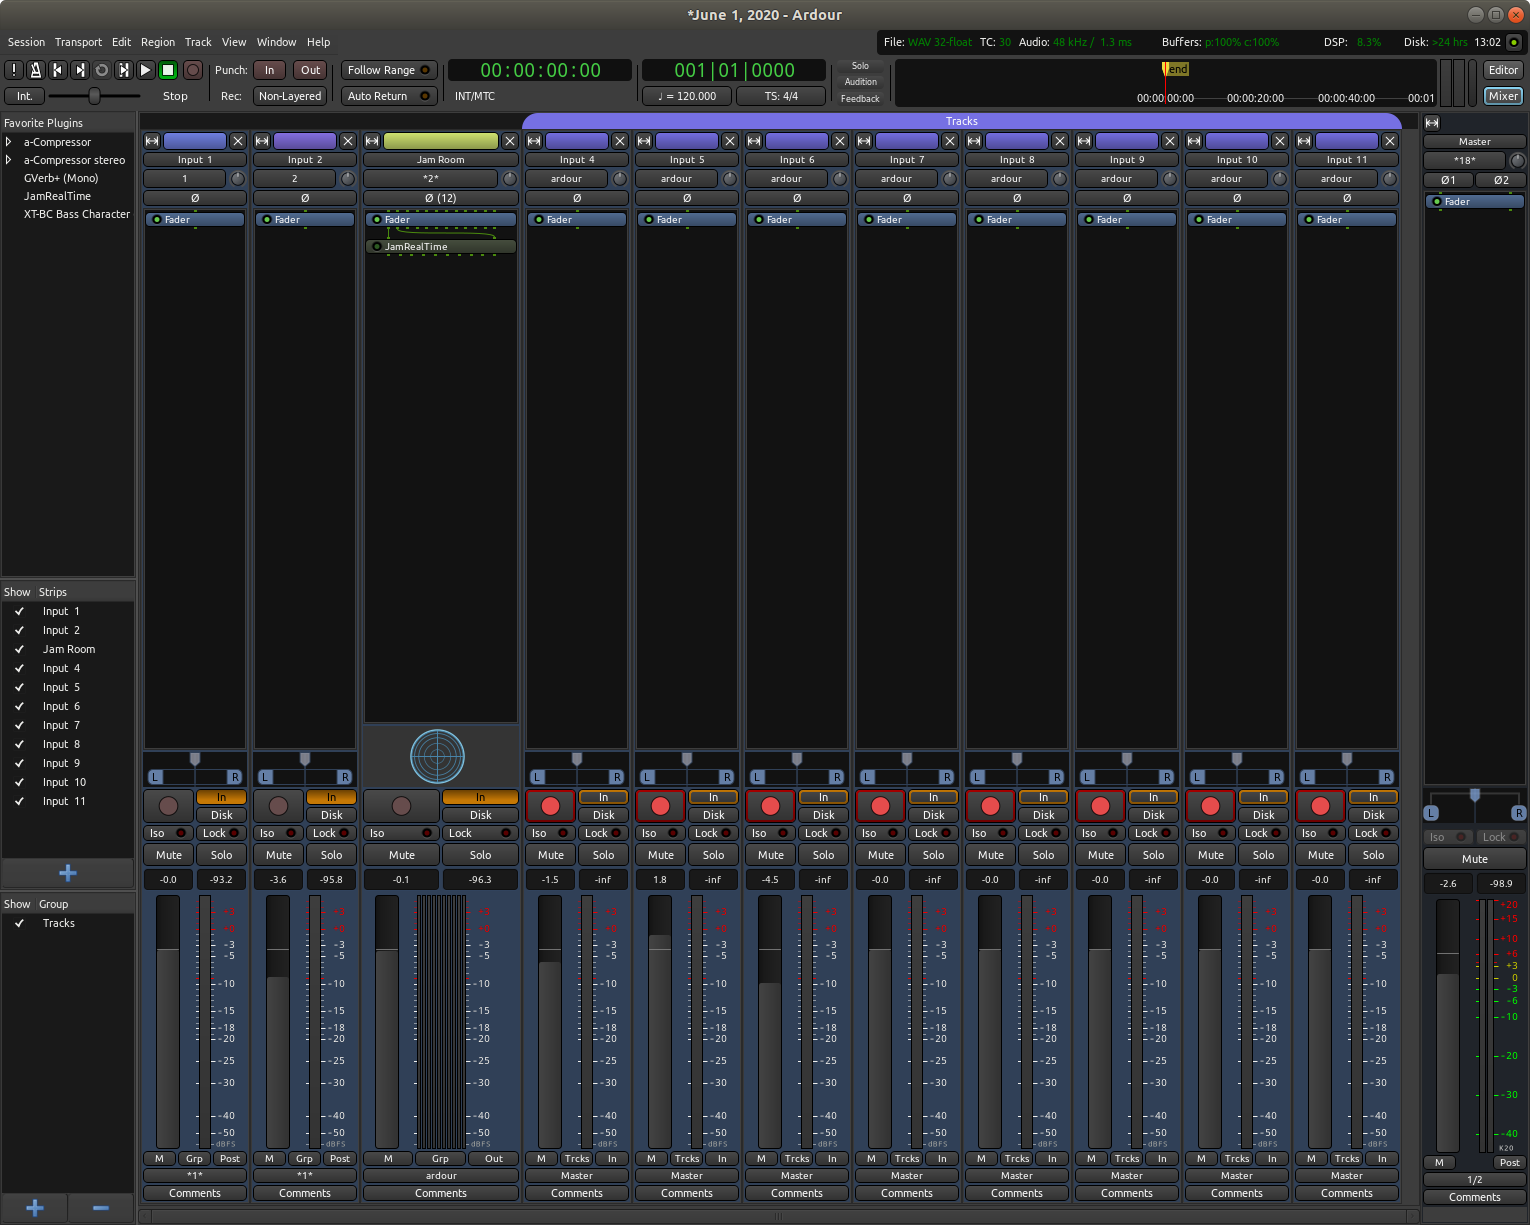
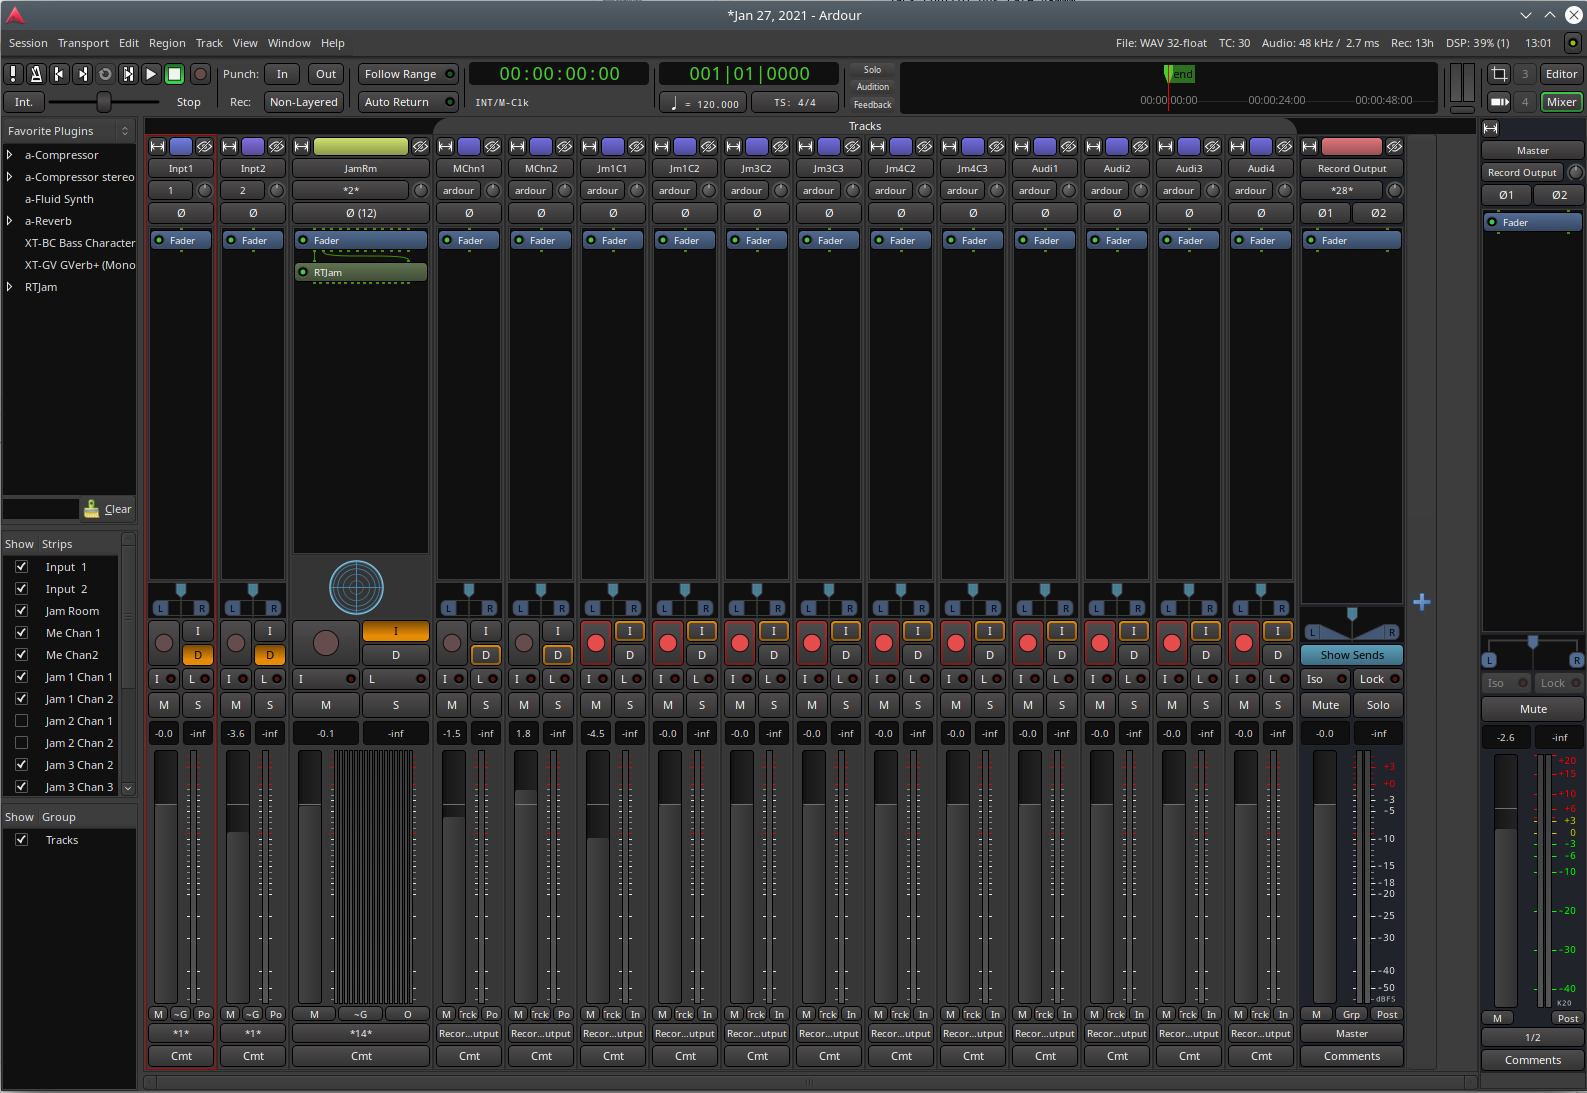
update README

diff --git a/README.md b/README.md
@@ -46,14 +46,15 @@ The RTJam software also builds on the Raspberry Pi 4 and can be run as a "standa
 
 ![Pi App](Standalone.png)
 
-- Input 1/2 - Shows pre and post fader levels for the users inputs
-- 4 player controls - Each control corresponds to another person in the room. The controls are level sliders for that user's two channels.
+- Room selector - chooses which jam room to occupy
+- Master volume - slider for overall level in the outputs
+- Bottom left faders - Shows pre and post fader levels for the users inputs
+- Player controls (right half side) - Each control set corresponds to another person in the room. The controls are level sliders for that user's two channels.
 
 ### Broadcast Server
-The server just listens for packets from VST clients.  The server dynamically creates channels based on the source address of the client packets and forwards packets to all active listeners.  There is currently no session control.  When you start talking the server will allocate a channel to you if one is open.  If you don't send any packets for 2 seconds, your channel is made available.
+The server just listens for packets from VST clients.  The server dynamically creates channels based on the source address of the client packets and forwards packets to all active listeners.  There is currently no session control.  When you start transmitting the server will allocate a channel to you if one is open.  If you don't send any packets for 1 second, your channel is made available.
 
-TODO: The server needs to timestamp and save the packet streams into an archive that can later be imported into some DAW software for mixing.  It might also be possible to have the VST keep the channels demuxed and provide them to the DAW there for recording.
-
+The server also creates a room mix for each room it hosts.  The PCM output of this mix is written to a FIFO file that can be read by ices or some other podcasting software.
 ### TODOS
 * make server name configurable
 * ensure all clients running the same framerate
@@ -86,30 +87,37 @@ Terminal=false
 Hidden=-false
 ```
 Contents of /home/pi/Desktop/JamOn.sh
+
 ```
 #!/bin/bash
+wget --tries=1 -T 2 -O /home/pi/rtjam music.basscleftech.com/pi/rtjam 
+chmod +x /home/pi/rtjam
+sudo sh -c "echo performance > /sys/devices/system/cpu/cpu0/cpufreq/scaling_governor"
 jack_control start
 jack_control ds alsa
-# Note that the device goes with the USB audio device
-jack_control dps device hw:USB
+jack_control dps device hw:USB   # Note device name depends on USB device!
 jack_control dps rate 48000
 jack_control dps nperiods 2
-jack_control dps period 64
-sleep 3
+jack_control dps period 128
+sleep 2
+cd
 /home/pi/rtjam &
-/home/pi/MVerb &
-sleep 3
+sleep 2
 jack_connect RTJam:out1 system:playback_1
 jack_connect RTJam:out2 system:playback_2
-jack_connect system:capture_1 MVerb:in1
-jack_connect MVerb:out1 RTJam:in1
+jack_connect system:capture_1 RTJam:in1
 jack_connect system:capture_2 RTJam:in2
 sleep 1
+
 ```
 ### Using With Sample DAW (Ardour)
 
-You can use the VST in a DAW to record sessions for mixing.  In the screen shots below, I have two inputs routed into a channel with the RTJam plugin inserted.  I then route outputs 3-12 of the plugin to separate mono channels that can be record armed and tracked.  Post jam session those tracks can be mixed/engineered. It would also be possible to run a real time mix of those to provide a "house" mix for some kind of live show.
+You can use the VST in a DAW to record sessions for mixing.  In the screen shots below, I have two inputs routed into a channel with the RTJam plugin inserted.  I then route outputs 3-16 of the plugin to separate mono channels that can be record armed and tracked.  Post jam session those tracks can be mixed/engineered. It would also be possible to run a real time mix of those to provide a "house" mix for some kind of live show.
 
-![Ardour Editor](ArdourEditor.png)
+Mixer view of session
 
 ![Ardour Mixer](ArdourMixer.png)
+
+Routing Grid (route the individual tracks from the VST to separate tracks)
+
+![Routing Grid](RoutingGrid.png)
